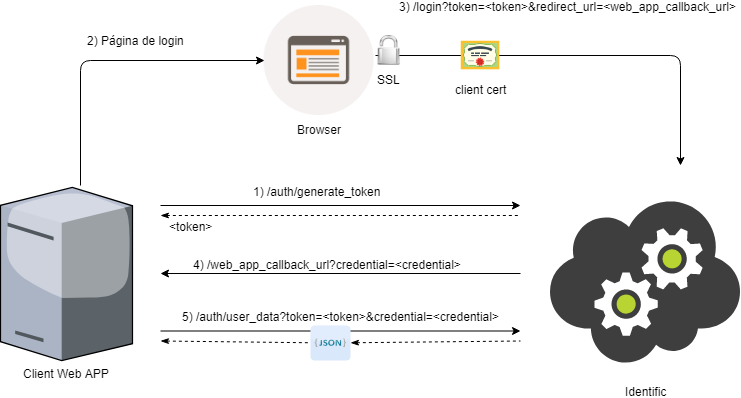
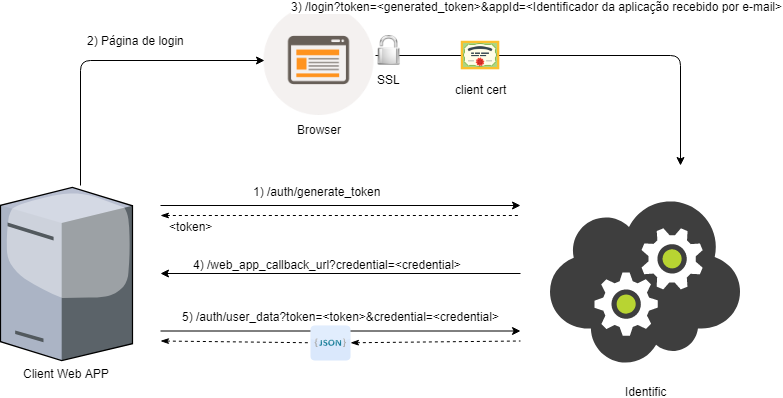
Alterando a aplicação e readme para a versão V2 da API Identific

diff --git a/src/main/java/br/com/experian/eid/identific/sample/IdentificSample.java b/src/main/java/br/com/experian/eid/identific/sample/IdentificSample.java
@@ -2,6 +2,7 @@ package br.com.experian.eid.identific.sample;
 
 import java.io.IOException;
 import java.security.GeneralSecurityException;
+import java.util.HashMap;
 import java.util.Map;
 
 import javax.annotation.PostConstruct;
@@ -11,9 +12,14 @@ import javax.servlet.http.HttpServletResponse;
 import org.springframework.beans.factory.annotation.Value;
 import org.springframework.boot.SpringApplication;
 import org.springframework.boot.autoconfigure.EnableAutoConfiguration;
+import org.springframework.http.HttpEntity;
+import org.springframework.http.HttpHeaders;
+import org.springframework.http.HttpMethod;
 import org.springframework.http.HttpStatus;
 import org.springframework.http.ResponseEntity;
 import org.springframework.stereotype.Controller;
+import org.springframework.util.LinkedMultiValueMap;
+import org.springframework.util.MultiValueMap;
 import org.springframework.web.bind.annotation.RequestMapping;
 import org.springframework.web.bind.annotation.RequestParam;
 import org.springframework.web.bind.annotation.ResponseBody;
@@ -32,9 +38,20 @@ public class IdentificSample {
 	private RestTemplate identificRest;
 
 	private String token;
+	//Identificador da aplicação cadastrada. Este identificador foi enviado para o seu e-mail quando 
+	//o cadastro da sua aplicação foi efetivado
+	private String appID="2bbfd1fb-5bb7-4a0b-8ebe-dda8311016b3"; 
 
+	//Chave da aplicação cadastrada. Esta chave foi enviado para o seu e-mail quando 
+	//o cadastro da sua aplicação foi efetivado
+	private String apiKey="zy7jhhVTqwesDR776m/JFHfxUrs=";
+
+	private MultiValueMap<String, String> headers = new LinkedMultiValueMap<>();
+    
+	
 	@PostConstruct
 	protected void init() throws GeneralSecurityException {
+		headers.add("Authorization", "Bearer " + apiKey);
 		identificRest = new RestTemplate();
 	}
 
@@ -49,20 +66,22 @@ public class IdentificSample {
 	@RequestMapping("/autenticacao")
 	@ResponseBody
 	public String authCallback(@RequestParam(name = "credential", required = true) String credential) {
-		@SuppressWarnings("unchecked")
-		Map<String, Object> resp = identificRest
-				.getForObject(eauthIdentificRestUrl + "/auth/user_data?token=" + token + "&credential=" + credential, Map.class);
+
+		ResponseEntity<Map> resp = identificRest.exchange(eauthIdentificRestUrl + "/auth/user_data?token=" + token + "&credential=" + credential, HttpMethod.GET, new HttpEntity<Object>(headers),
+				Map.class);
 		
-		return "Obrigado por logar, " + resp.get("name") + "!<br/>"
-				+ "<br/> CPF: " + resp.get("cpf")
-				+ "<br/> Email: " + resp.get("email")
-				+ "<br/> Status: " + resp.get("status");
+		return "Obrigado por logar, " + resp.getBody().get("name") + "!<br/>"
+				+ "<br/> CPF: " + resp.getBody().get("cpf")
+				+ "<br/> Email: " + resp.getBody().get("email")
+				+ "<br/> Status: " + resp.getBody().get("status");
 	}
 
 	@RequestMapping("/login")
 	public void login(HttpServletRequest request, HttpServletResponse response) throws IOException {
-		ResponseEntity<String> genTokenResp = identificRest.getForEntity(eauthIdentificRestUrl + "/auth/generate_token",
+		
+		ResponseEntity<String> genTokenResp = identificRest.exchange(eauthIdentificRestUrl + "/auth/generate_token", HttpMethod.GET, new HttpEntity<Object>(headers),
 				String.class);
+
 		if (genTokenResp.getStatusCode() != HttpStatus.OK) {
 			response.sendError(genTokenResp.getStatusCodeValue(), genTokenResp.toString());
 			return;
@@ -70,11 +89,8 @@ public class IdentificSample {
 		// Obtem o token gerado.
 		token = genTokenResp.getBody();
 
-		// Callback URL
-		String callbackAuthUrl = getBaseUrl(request) + "/autenticacao";
-
 		// redireciona para o login Identific
-		response.sendRedirect(eauthIdentificLoginUrl + "?token=" + token + "&redirect_url=" + callbackAuthUrl);
+		response.sendRedirect(eauthIdentificLoginUrl + "?token=" + token + "&appId=" + appID);
 	}
 
 	public static void main(String[] args) throws Exception {

diff --git a/README.md b/README.md
@@ -1,12 +1,25 @@
 # eauth-identific-java-sample
 Exemplo Java de utilização do serviço e-Auth Identific de autenticação via certificado digital
 
+### Cadastrando para usar o serviço e-Auth Identific ###
+ 
+1. Para a utilização do serviço e-Auth Identific é necessário o cadastramento do seu site em nosso ambiente, localizado no endereço https://identific.certificadodigital.com.br.
+1. Clique no botão Inserir em meu site.
+1. Complete o cadastro com os seus dados pessoais, da empresa que trabalha e da aplicação. 
+1. Caso seja um cadastro para executar este exemplo insira em url de domiínio o seguinte endereço (http://localhost:8080) e em URL de redirecionamento (/autenticacao). 
+1. Após este cadastro ser efetuado você receberá, em seu e-mail, um identificador e uma chave para o seu site. Tanto o identificador como a chave serão necessários para o uso do serviço e-Auth Identific. 
+
 ### Executando o exemplo ###
 
+1. Tenha em mãos o identificador e a chave obtidos no cadastro da sua plaicação. Eles são necessários para a execução deste exemplo.   
+1. Dentro do arquivo fonte IdentificSample.java inicialize o campo appID com o identificador, recebido por e-mail,
+da sua aplicação.
+1. dentro do arquivo fonte IdentificSample.java inicialize o campo apiKey com a chave, recebida por e-mail,
+da sua aplicação.
 1. Execute o IdentificSample.java
 1. Acesse http://localhost:8080/login
 1. Escolha o certificado a ser utilizado para autenticação
-1. Após a autenticação o Identific redireciona o usuário para http://localhost:8080/autenticacao, que por sua vez, exibirá os dados do dono do certificado.
+1. Após a autenticação o Identific redireciona o usuário para a url cadastrada para a applicação. No caso do exemplo a url será http://localhost:8080/autenticacao, que por sua vez, exibirá os dados do dono do certificado.
 
 ### Como funciona a API ###
 
@@ -17,25 +30,27 @@ A API do Identific realiza a autenticação do usuário através de 3 passos: Ob
 Obtenção do Token:
 
 ```sh
-$ curl https://<API_URL>/auth/generate_token -k
+$ curl -X GET "https://identific.certificadodigital.com.br/api/v2/auth/generate_token" -H "Authorization: Bearer <Chave recebida por e-mail>"
+
 ```
 
 Redireciona o usuário para o login no browser:
 
 ```
-https://<LOGIN_URL>/login?token=<generated_token>&redirect_url=<url_to_get_response>
+https://login-identific.certificadodigital.com.br/login?token=<generated_token>&appId=<Identificador da aplicação recebido por e-mail>
 ```
 
 O Identific redireciona para <url_to_get_response>:
 
 ```
-<url_to_get_response>?credential=<credential>
+<url_to_get_response - Esta url foi a cadstrada para a aplicação>?credential=<credential>
+
 ```
 
 Validar as credenciais e obter as informações do usuário:
 
 ```sh
-$ curl https://<API_URL>/auth/user_data -d token=<token> -d credential=<credential> -k 
+$ curl https://identific.certificadodigital.com.br/api/v2/auth/user_data -d token=<token> -d credential=<credential> -H "Authorization: Bearer <Chave recebida por e-mail>" 
 ```
 
 O Identific retorna o JSON com os dados do usuário e o status de validação do certificado:
